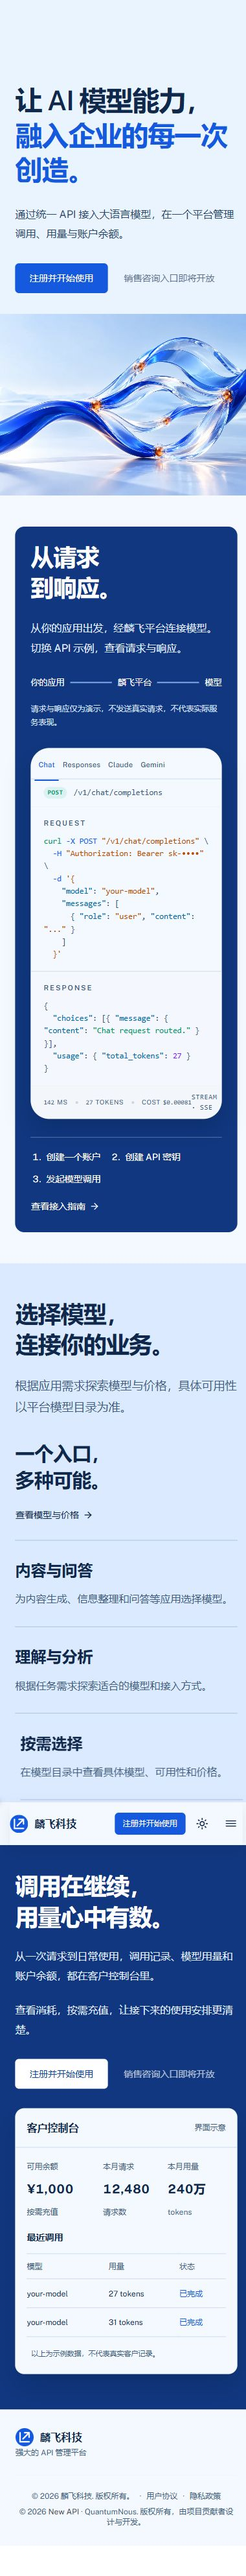
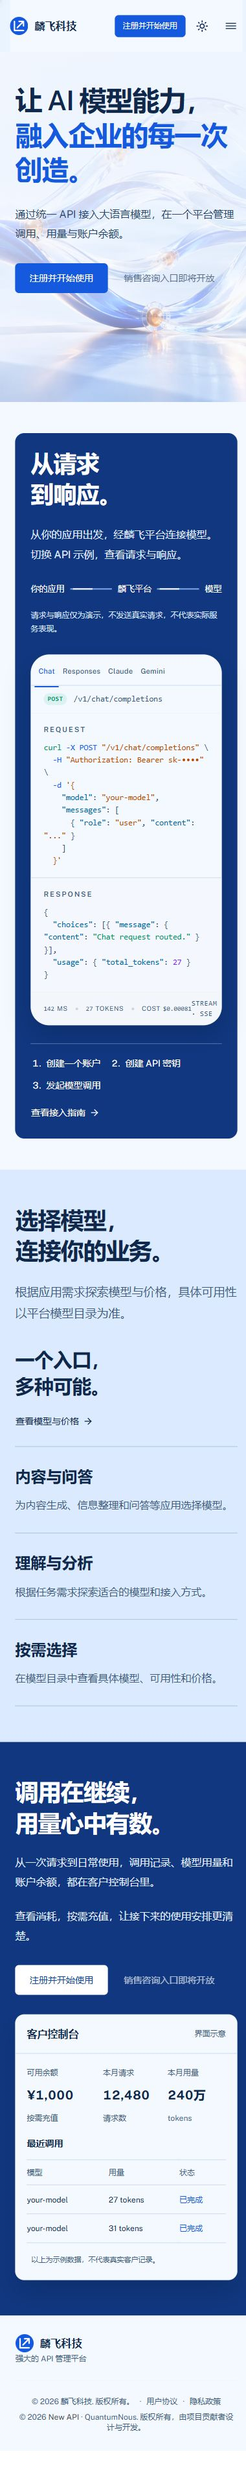
fix(ui): keep mobile hero artwork behind homepage copy

diff --git a/web/src/features/home/__tests__/layout.test.ts b/web/src/features/home/__tests__/layout.test.ts
@@ -1,0 +1,44 @@
+/*
+Copyright (C) 2023-2026 QuantumNous
+
+This program is free software: you can redistribute it and/or modify
+it under the terms of the GNU Affero General Public License as
+published by the Free Software Foundation, either version 3 of the
+License, or (at your option) any later version.
+
+This program is distributed in the hope that it will be useful,
+but WITHOUT ANY WARRANTY; without even the implied warranty of
+MERCHANTABILITY or FITNESS FOR A PARTICULAR PURPOSE. See the
+GNU Affero General Public License for more details.
+
+You should have received a copy of the GNU Affero General Public License
+along with this program. If not, see <https://www.gnu.org/licenses/>.
+
+For commercial licensing, please contact support@quantumnous.com
+*/
+import { readFileSync } from 'node:fs'
+
+import { afterEach, expect, it } from 'vitest'
+
+const style = document.createElement('style')
+afterEach(() => style.remove())
+
+it('keeps mobile hero artwork behind the copy instead of allocating a separate image row', () => {
+  style.textContent = readFileSync('src/styles/lftech-home.css', 'utf8')
+  document.head.appendChild(style)
+  const mobile = [...(style.sheet?.cssRules ?? [])].find(
+    (rule): rule is CSSMediaRule =>
+      'media' in rule &&
+      (rule as CSSMediaRule).media.mediaText === '(max-width: 800px)'
+  )
+  expect(mobile).toBeDefined()
+  const artwork = [...(mobile?.cssRules ?? [])].find(
+    (rule): rule is CSSStyleRule =>
+      'selectorText' in rule && rule.selectorText === '.lf-hero-art'
+  )
+  expect(artwork?.style.getPropertyValue('position')).toBe('absolute')
+  expect(artwork?.style.getPropertyValue('z-index')).toBe('-2')
+  expect(
+    Number.parseFloat(artwork?.style.getPropertyValue('margin-top') ?? '')
+  ).toBe(0)
+})

diff --git a/web/src/styles/lftech-home.css b/web/src/styles/lftech-home.css
@@ -597,32 +597,28 @@ For commercial licensing, please contact support@quantumnous.com
   }
   .lf-hero {
     padding-top: 80px;
-    min-height: 0;
+    min-height: 620px;
   }
   .lf-hero-copy {
-    padding-block: 48px 0;
+    padding-block: 48px 88px;
   }
   .lf-hero::after {
-    display: none;
+    background: linear-gradient(
+      180deg,
+      #f4f8fff0 0%,
+      #f4f8ffdb 45%,
+      #f4f8ff99 75%,
+      #f4f8ff26 100%
+    );
   }
   .lf-hero-art {
-    position: relative;
-    inset: auto;
-    z-index: 0;
+    position: absolute;
+    inset: 80px 0 0;
+    z-index: -2;
     display: block;
-    height: 280px;
+    height: calc(100% - 80px);
     object-position: 65% center;
-    margin-top: 32px;
-  }
-  .lf-hero {
-    display: flex;
-    flex-direction: column;
-  }
-  .lf-hero-copy {
-    order: 0;
-  }
-  .lf-hero-art {
-    order: 1;
+    margin-top: 0;
   }
   .lf-hero h1 {
     font-size: 42px;

diff --git a/DESIGN.md b/DESIGN.md
@@ -221,3 +221,5 @@ Use only `web/public/images/lftech/api-ribbon.webp` as the generated hero image.
 ## Product brand
 
 Customer-facing default branding is 麟飞科技 (Linfei Technology), using `/images/lftech/brand-mark.svg`. Public Sans is self-hosted and shared with explicit Chinese sans-serif fallbacks; the wordmark uses weight 650. Homepage display headings use weight 600. The default app action, focus-ring, and sidebar accent use the same #1559df blue as the homepage. Code retains its monospace face. Explicit user font preferences remain available in the console. New API, QuantumNous, and One API authorship and license notices remain in attribution surfaces. Legacy default names and local logo paths are normalized before rendering, including cached settings.
+
+The hero artwork stays absolutely positioned behind the hero copy on mobile as well as desktop. Use the mobile light overlay to preserve text contrast; never turn the artwork into a separate stacked image row. The hero height grows with content, with a 620px mobile minimum.
